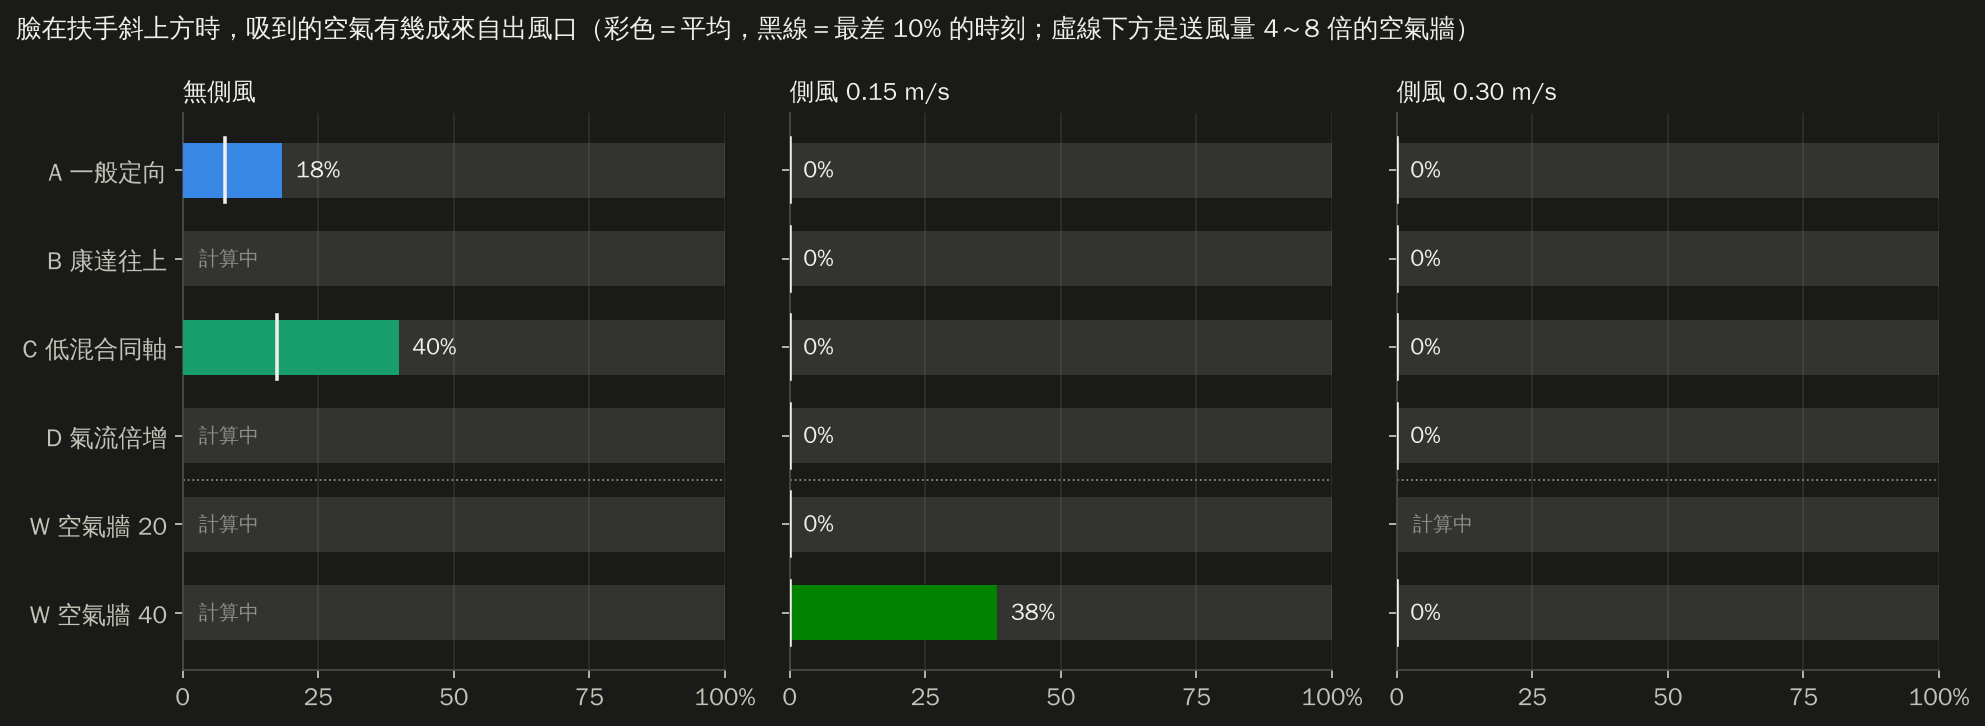
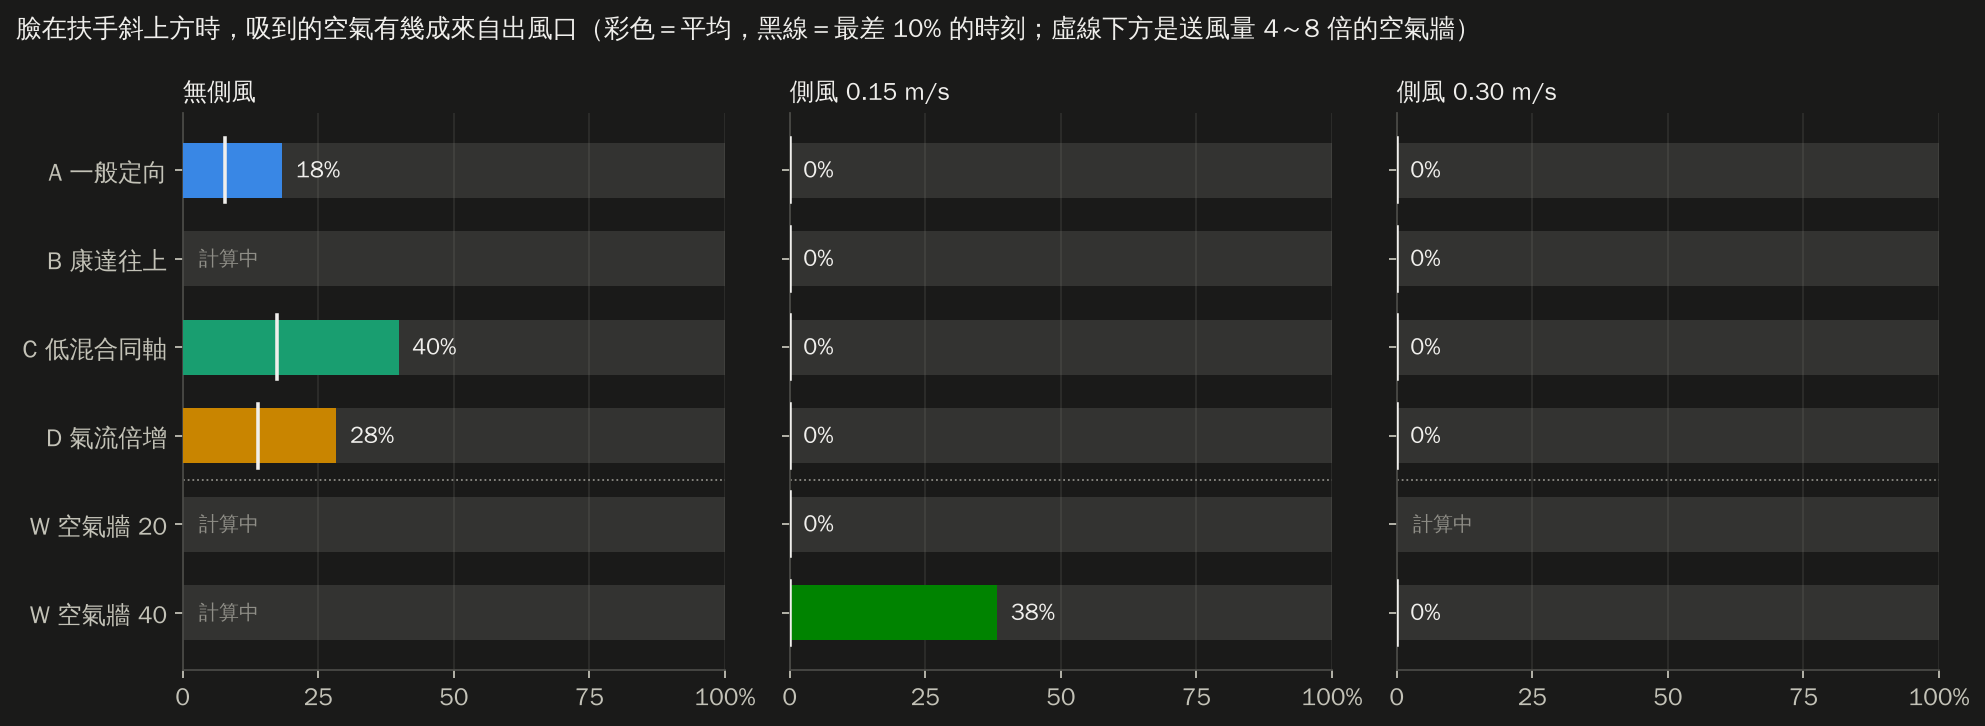
Face-above: 14/18 results (D no crossflow, 24 s)
Claude-Session: https://claude.ai/code/session_01CLMVR9XzZXdsSKCMSLUbBG

Changed region(s): [[0.0937, 0.5455, 0.1874, 0.6364]]

diff --git a/stairwell-airflow-sim/report/index.html b/stairwell-airflow-sim/report/index.html
@@ -173,7 +173,7 @@ footer { margin-top: 48px; padding-top: 20px; border-top: 1px solid var(--line);
   <h1>扶手送風模擬報告</h1>
   <p class="question">一根貫穿整棟樓的扶手，平時能不能流通、淨化空氣？火災時能幫逃生者做到什麼？用電腦模擬一項一項檢查。</p>
   <div class="meta"><span>日期 <b>2026-10-19</b></span><span>專案 <b>長庚大學工業設計學系 林煜宸</b></span><span>模擬與撰寫 <b>Claude（AI）</b></span></div>
-  <div class="progress" role="status"><p>臉在斜上方的出風口重算：已完成 13/18 組，整體約 72%，預計台灣時間 <b>23:56</b> 前後完成</p><div class="bar" aria-hidden="true"><span style="width:71.8%"></span></div><div class="chips"><span class="chip chip-run"><b>B 康達往上</b>・無側風　51%</span><span class="chip chip-done"><b>B 康達往上</b>・側風 0.15　完成</span><span class="chip chip-done"><b>B 康達往上</b>・側風 0.30　完成</span><span class="chip chip-done"><b>A 一般</b>・側風 0.30　完成</span><span class="chip chip-done"><b>C 低混合</b>・側風 0.30　完成</span><span class="chip chip-done"><b>D 倍增</b>・側風 0.30　完成</span><span class="chip chip-done"><b>A 一般</b>・無側風　完成</span><span class="chip chip-done"><b>A 一般</b>・側風 0.15　完成</span><span class="chip chip-run"><b>D 倍增</b>・無側風　61%</span><span class="chip chip-done"><b>D 倍增</b>・側風 0.15　完成</span><span class="chip chip-done"><b>C 低混合</b>・側風 0.15　完成</span><span class="chip chip-done"><b>C 低混合</b>・無側風　完成</span><span class="chip chip-done"><b>W 空氣牆 40</b>・側風 0.15　完成</span><span class="chip chip-done"><b>W 空氣牆 20</b>・側風 0.15　完成</span><span class="chip chip-done"><b>W 空氣牆 40</b>・側風 0.30　完成</span><span class="chip chip-run"><b>W 空氣牆 20</b>・側風 0.30　8%</span><span class="chip chip-run"><b>W 空氣牆 40</b>・無側風　2%</span><span class="chip chip-wait"><b>W 空氣牆 20</b>・無側風　排隊中</span></div><p class="muted small">進度在每次更新報告時重新計算（最後更新：台灣時間 10/19 23:18）。</p></div>
+  <div class="progress" role="status"><p>臉在斜上方的出風口重算：已完成 14/18 組，整體約 84%，預計台灣時間 <b>23:54</b> 前後完成</p><div class="bar" aria-hidden="true"><span style="width:83.6%"></span></div><div class="chips"><span class="chip chip-run"><b>B 康達往上</b>・無側風　72%</span><span class="chip chip-done"><b>B 康達往上</b>・側風 0.15　完成</span><span class="chip chip-done"><b>B 康達往上</b>・側風 0.30　完成</span><span class="chip chip-done"><b>A 一般</b>・側風 0.30　完成</span><span class="chip chip-done"><b>C 低混合</b>・側風 0.30　完成</span><span class="chip chip-done"><b>D 倍增</b>・側風 0.30　完成</span><span class="chip chip-done"><b>A 一般</b>・無側風　完成</span><span class="chip chip-done"><b>A 一般</b>・側風 0.15　完成</span><span class="chip chip-done"><b>D 倍增</b>・無側風　完成</span><span class="chip chip-done"><b>D 倍增</b>・側風 0.15　完成</span><span class="chip chip-done"><b>C 低混合</b>・側風 0.15　完成</span><span class="chip chip-done"><b>C 低混合</b>・無側風　完成</span><span class="chip chip-done"><b>W 空氣牆 40</b>・側風 0.15　完成</span><span class="chip chip-done"><b>W 空氣牆 20</b>・側風 0.15　完成</span><span class="chip chip-done"><b>W 空氣牆 40</b>・側風 0.30　完成</span><span class="chip chip-run"><b>W 空氣牆 20</b>・側風 0.30　56%</span><span class="chip chip-run"><b>W 空氣牆 40</b>・無側風　38%</span><span class="chip chip-run"><b>W 空氣牆 20</b>・無側風　0%</span></div><p class="muted small">進度在每次更新報告時重新計算（最後更新：台灣時間 10/19 23:30）。</p></div>
 </header>
 <nav class="toc" aria-label="章節">
   <a href="#summary">一頁看懂</a><a href="#method">怎麼測的</a><a href="#daily">平時：新風帶</a><a href="#fire">火災：守護路線</a>
@@ -445,16 +445,16 @@ footer { margin-top: 48px; padding-top: 20px; border-top: 1px solid var(--line);
 
 <section id="nozzle">
   <h2><span class="no">04</span>四種出風口比一比（臉在扶手斜上方）</h2>
-  <p class="oneliner">臉在扶手斜上方時（已完成 13/18 組），目前口鼻乾淨空氣最高的是 C 低混合同軸（無側風）：40%。</p>
+  <p class="oneliner">臉在扶手斜上方時（已完成 14/18 組），目前口鼻乾淨空氣最高的是 C 低混合同軸（無側風）：40%。</p>
   <figure class="fig render"><img class="img-any" src="assets/render_nozzles.webp" alt="四種扶手側面出風口形式比較" loading="lazy"><figcaption>四種出風口的造型構想（設計渲染圖）。圖中文字是設計構想，實際結果以下方模擬為準。</figcaption></figure>
   <figure class="fig"><img class="img-light" src="assets/s2f_saf_bars.png" alt="臉在斜上方時四種出風口的乾淨空氣比例" loading="lazy"><img class="img-dark" src="assets/s2f_saf_bars_dark.png" alt="臉在斜上方時四種出風口的乾淨空氣比例" loading="lazy"><figcaption>每條橫條代表 100% 的吸入空氣，彩色部分是來自出風口的乾淨空氣。黑色短線是最差 10% 的時刻。</figcaption></figure>
   <div class="points prose">
 <p><b>為什麼重算：</b>人扶著內側扶手下樓時，臉在扶手的<b>斜上方</b>，不是正前方。這組把口鼻放在出風口往樓梯側 28 cm、往上 35 cm（距離約 45 cm、仰角約 51°）；A、C、D 出風口改成朝向口鼻，B 改用藏在底面、往上轉的康達出風口。每公尺送風量都是 5 L/s，網格 1.5 mm。<span class="tag tag-sim">模擬結果</span></p>
-<div class="table-wrap"><table><thead><tr><th scope="col">出風口</th><th scope="col">無側風</th><th scope="col">側風 0.15</th><th scope="col">側風 0.30</th></tr></thead><tbody><tr><th scope="row">A 一般定向</th><td class="num">18%</td><td class="num">0%</td><td class="num">0%</td></tr><tr><th scope="row">B 康達往上</th><td class="num">計算中</td><td class="num">0%</td><td class="num">0%</td></tr><tr><th scope="row">C 低混合同軸</th><td class="num">40%</td><td class="num">0%</td><td class="num">0%</td></tr><tr><th scope="row">D 氣流倍增</th><td class="num">計算中</td><td class="num">0%</td><td class="num">0%</td></tr><tr><th scope="row">W 空氣牆 20 L/s/m</th><td class="num">計算中</td><td class="num">0%</td><td class="num">計算中</td></tr><tr><th scope="row">W 空氣牆 40 L/s/m</th><td class="num">計算中</td><td class="num">38%</td><td class="num">0%</td></tr></tbody></table></div>
+<div class="table-wrap"><table><thead><tr><th scope="col">出風口</th><th scope="col">無側風</th><th scope="col">側風 0.15</th><th scope="col">側風 0.30</th></tr></thead><tbody><tr><th scope="row">A 一般定向</th><td class="num">18%</td><td class="num">0%</td><td class="num">0%</td></tr><tr><th scope="row">B 康達往上</th><td class="num">計算中</td><td class="num">0%</td><td class="num">0%</td></tr><tr><th scope="row">C 低混合同軸</th><td class="num">40%</td><td class="num">0%</td><td class="num">0%</td></tr><tr><th scope="row">D 氣流倍增</th><td class="num">28%</td><td class="num">0%</td><td class="num">0%</td></tr><tr><th scope="row">W 空氣牆 20 L/s/m</th><td class="num">計算中</td><td class="num">0%</td><td class="num">計算中</td></tr><tr><th scope="row">W 空氣牆 40 L/s/m</th><td class="num">計算中</td><td class="num">38%</td><td class="num">0%</td></tr></tbody></table></div>
 <p><b>目前看到的現象（8 組有側風的結果）：</b>有側風時，出風口吹出的乾淨空氣一離開扶手，就被由下往上的氣流帶著<b>貼著扶手正上方往上走</b>，到不了往樓梯側 28 cm 外的臉，口鼻都是 0%。B 康達往上確實有沿圓角轉向上（下面的圖看得到深藍色貼著導風腔轉彎），但轉上去之後一樣直直往上，沒有往臉的方向偏。<span class="tag tag-sim">模擬結果</span></p>
 <p><b>加算空氣牆：</b>先算完的幾組顯示，每公尺 5 L/s 的出風口在有側風時送不到斜上方的臉。所以把第 05 章表現最好的空氣牆（寬 80 mm、每公尺 20 或 40 L/s、水平往樓梯側吹）也放進同一個「臉在斜上方＋有頭」的測試，共 6 組，表格最後兩列。<span class="tag tag-sim">模擬結果</span></p>
 <p><b>無側風要算久一點：</b>沒有側風時氣流很慢，乾淨空氣要好幾秒才飄到臉旁。先算的 10 秒版本裡，B、C、D 的口鼻數值還在一路往上爬（B 從 0% 爬到 12%、C 從 15% 爬到 46%、D 從 0% 爬到 36%），代表還沒穩定，所以無側風的 B、C、D 和空氣牆延長到 24 秒重算，取後 16 秒平均。A 的 10 秒版本前後半段差不多（19%／18%），已經穩定。<span class="tag tag-sim">模擬結果</span></p>
-<p class="muted">已完成 13/18 組，其餘計算中；每完成一批就會更新。</p></div>
+<p class="muted">已完成 14/18 組，其餘計算中；每完成一批就會更新。</p></div>
   <figure class="fig"><img class="img-light" src="assets/s2f_reach.png" alt="在臉的高度，乾淨空氣層往樓梯側延伸多遠" loading="lazy"><img class="img-dark" src="assets/s2f_reach_dark.png" alt="在臉的高度，乾淨空氣層往樓梯側延伸多遠" loading="lazy"><figcaption>怎麼量：取口鼻上下各 3 cm 的水平帶，算出每個位置的平均乾淨空氣比例，看 ≥ 25%（淺色）和 ≥ 50%（深色）的範圍從出風口出口往樓梯側最遠到幾公分。紅虛線是這次假設的臉（28 cm）；長條超過紅線，臉才吸得到。</figcaption></figure>
   <figure class="fig"><img class="img-light" src="assets/s2f_vc00_fields.png" alt="臉在斜上方、無側風" loading="lazy"><img class="img-dark" src="assets/s2f_vc00_fields_dark.png" alt="臉在斜上方、無側風" loading="lazy"><figcaption>無側風：紅圈是口鼻位置，顏色越深代表出風口的空氣越多。</figcaption></figure>
   <figure class="fig"><img class="img-light" src="assets/s2f_vc15_fields.png" alt="臉在斜上方、側風 0.15 m/s" loading="lazy"><img class="img-dark" src="assets/s2f_vc15_fields_dark.png" alt="臉在斜上方、側風 0.15 m/s" loading="lazy"><figcaption>側風 0.15 m/s（由下往上）。</figcaption></figure>
